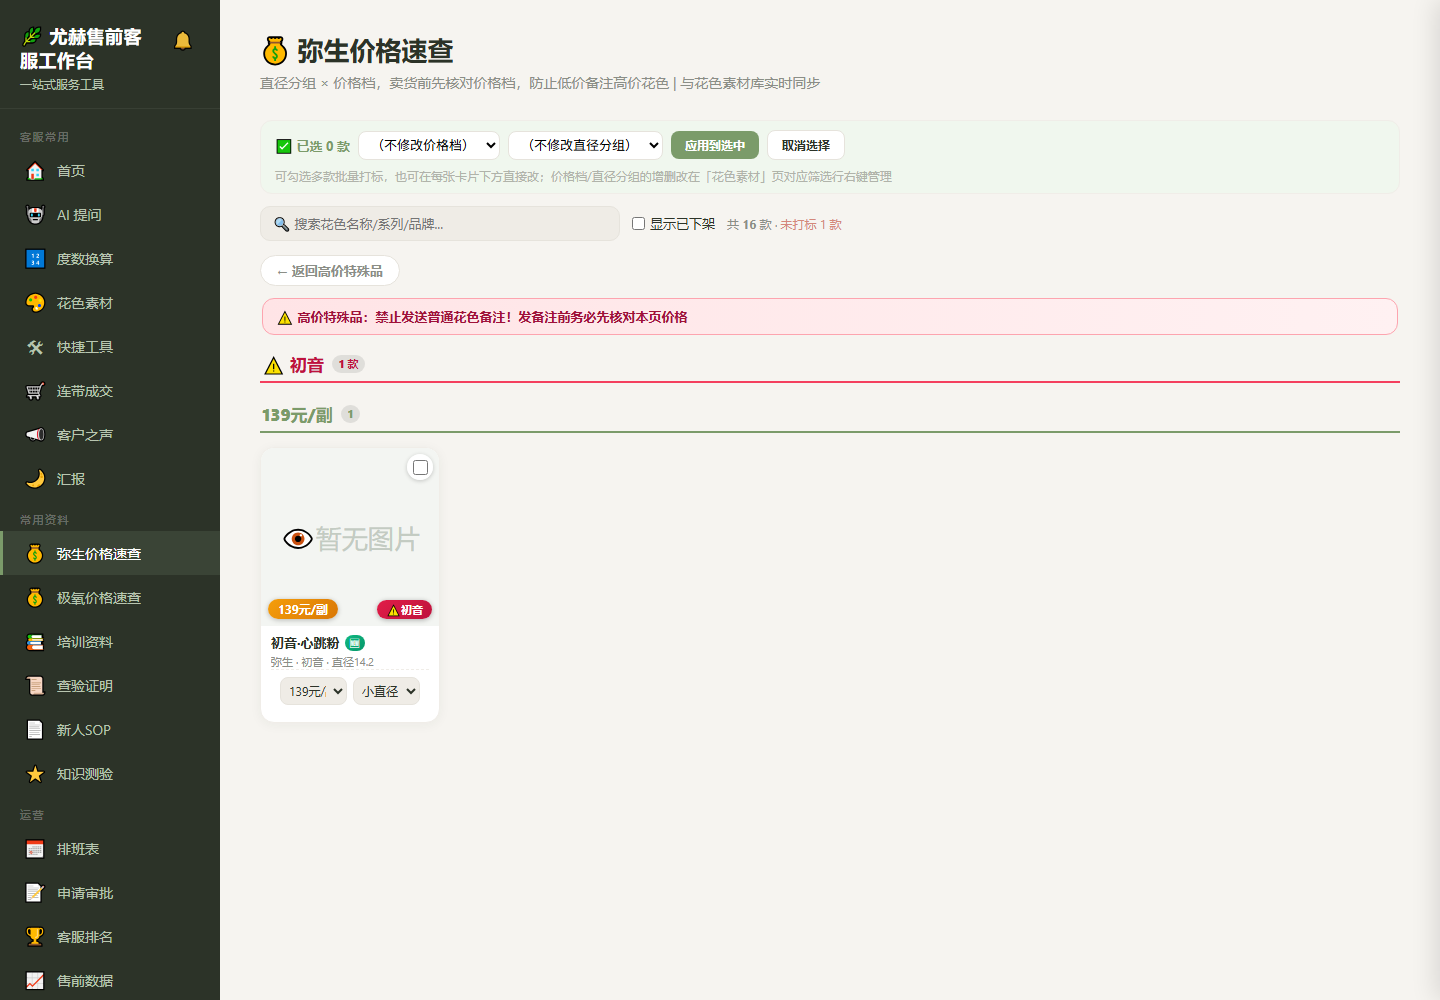
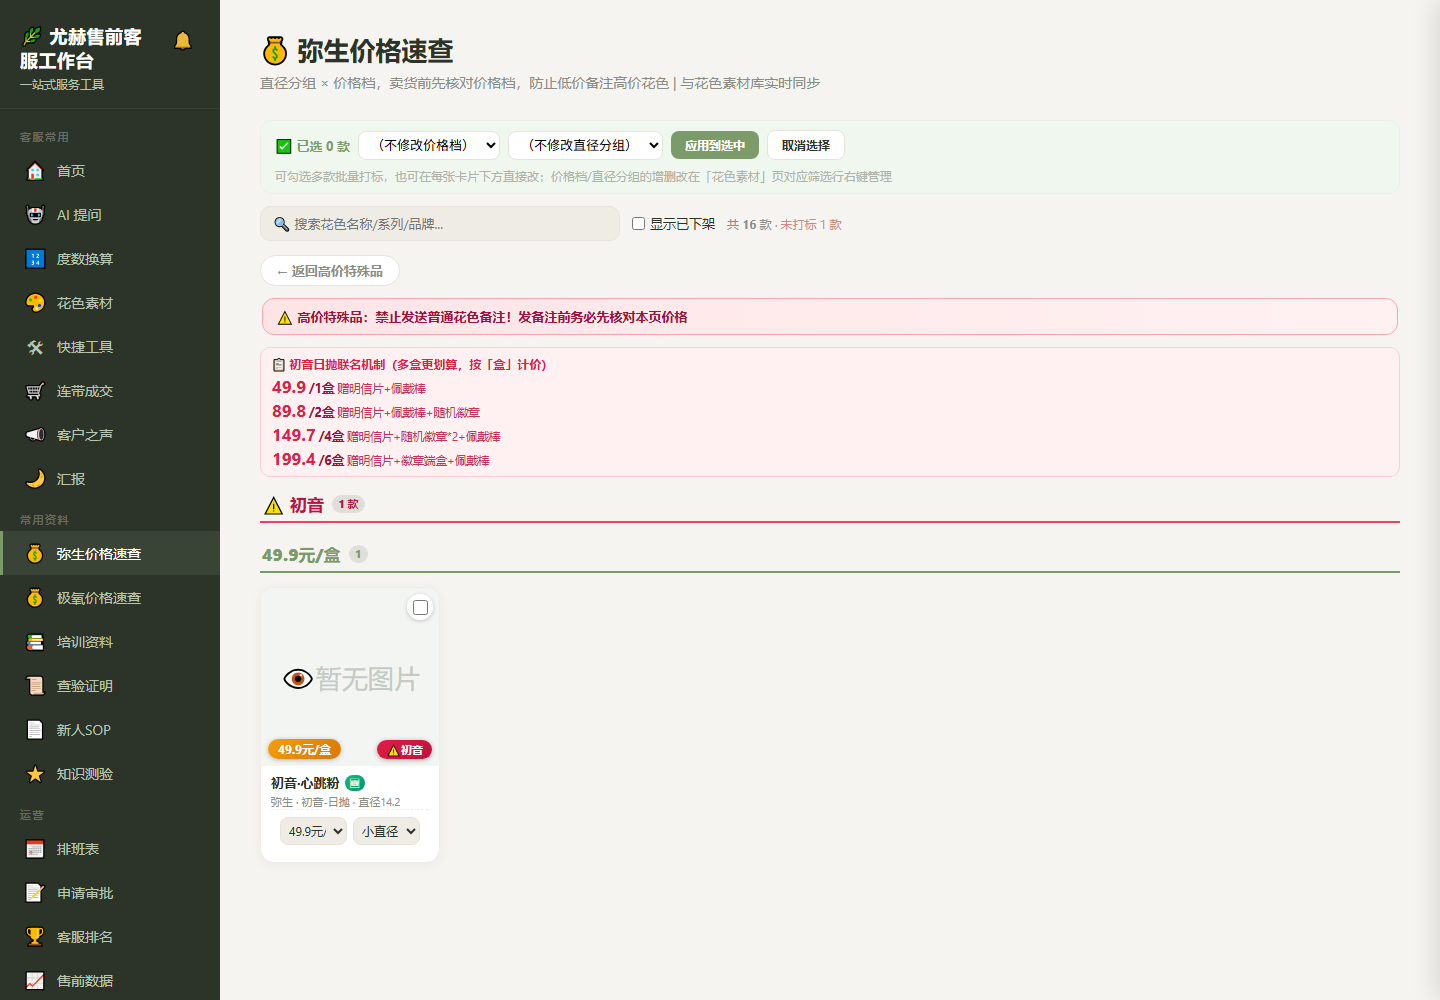
feat(patterns): 初音联名机制印上红卡卡面（49.9/89.8/149.7/199.4 多盒价+赠品），明细页机制条常驻；修复初音匹配（系列名实为初音-日抛/初音未来，全等匹配零命中）；初音日抛价格显示自动转「/盒」，半年抛保持「/副」

Changed region(s): [[0.1875, 0.496, 0.3125, 0.837], [0.1875, 0.341, 0.375, 0.496]]

diff --git a/index.html b/index.html
@@ -782,6 +782,13 @@ body {
 .pp-special-badge{position:absolute;bottom:7px;right:7px;background:linear-gradient(135deg,#e11d48,#be123c);color:#fff;font-size:11px;font-weight:700;padding:2px 9px;border-radius:11px;z-index:2;box-shadow:0 1px 5px rgba(0,0,0,.3);white-space:nowrap;pointer-events:none}
 .pp-special-head{margin:24px 4px 12px;font-size:13px;font-weight:800;color:#be123c;padding:10px 14px;background:#fff1f2;border:1.5px solid #fecdd3;border-radius:12px}
 .pp-special-banner{margin:0 2px 12px;font-size:13px;font-weight:700;color:#9f1239;background:linear-gradient(90deg,#ffe4e6,#fff1f2);border:1px solid #fda4af;border-radius:12px;padding:9px 13px}
+/* 初音联名多盒机制（红卡/明细页复用） */
+.pp-mech{width:100%;box-sizing:border-box;text-align:left;background:#fff1f2;border:1px solid #fecdd3;border-radius:10px;padding:8px 11px;margin:2px 0 10px;display:flex;flex-direction:column;gap:5px}
+.pp-mech-title{font-size:12px;font-weight:800;color:#e11d48}
+.pp-mech-row{display:flex;align-items:baseline;gap:3px;font-size:12.5px;color:#9f1239;flex-wrap:wrap}
+.pp-mech-row b{font-size:17px;color:#e11d48;line-height:1.1}
+.pp-mech-box{font-weight:700}
+.pp-mech-gift{color:#be123c;opacity:.85;font-size:11.5px}
 .pp-check{position:absolute;top:6px;right:6px;z-index:3;background:rgba(255,255,255,.94);border-radius:50%;width:26px;height:26px;display:flex;align-items:center;justify-content:center;box-shadow:0 1px 4px rgba(0,0,0,.2)}
 .pp-check input{width:15px;height:15px;cursor:pointer;accent-color:var(--primary)}
 .pp-body{padding:8px 10px 10px}
@@ -9712,12 +9719,33 @@ const PP_DIMS = [
   { dim: 'diam',   icon: '⭕', title: '按直径', color: '#10b981', key: p => p.diamGroup || '', badgeOf: 'price' },
   { dim: 'price',  icon: '💰', title: '按价格', color: '#f59e0b', key: p => p.priceTier || '', badgeOf: 'diam' },
 ];
-// 高价特殊品：初音=系列名为「初音」；定轴=fixed_axis 填了值。均比普通花色贵，客服容易把普通备注错发到这些单
+// 高价特殊品：初音=系列名含「初音」（线上实际值：初音-日抛 / 初音未来）；定轴=fixed_axis 填了值。均比普通花色贵，客服容易把普通备注错发到这些单
+// mech=联名多盒价格机制（初音日抛按「盒」计价，半年抛按「副」），要改机制内容直接改这里
 const PP_SPECIALS = [
-  { key: 'chuyin',   label: '初音', color: '#e11d48', match: p => (p.series || '') === '初音' },
+  { key: 'chuyin',   label: '初音', color: '#e11d48', match: p => (p.series || '').includes('初音'),
+    mech: [
+      { price: '49.9',  boxes: '1盒', gift: '赠明信片+佩戴棒' },
+      { price: '89.8',  boxes: '2盒', gift: '赠明信片+佩戴棒+随机徽章' },
+      { price: '149.7', boxes: '4盒', gift: '赠明信片+随机徽章*2+佩戴棒' },
+      { price: '199.4', boxes: '6盒', gift: '赠明信片+徽章端盒+佩戴棒' },
+    ] },
   { key: 'dingzhou', label: '定轴', color: '#ea580c', match: p => !!(((p.fixedAxis || '') + '').trim()) },
 ];
 function ppSpecialTags(p) { const a = []; PP_SPECIALS.forEach(s => { if (s.match(p)) a.push(s.label); }); return a; }
+// 价格显示单位：初音日抛按「盒」，其余（含半年抛）按「副」。只改显示，不动库里的档位名
+function ppTierLabel(p) {
+  const t = p.priceTier || '';
+  if (t && (p.series || '').includes('初音') && p._type === '日抛' && /\/副$/.test(t)) return t.slice(0, -2) + '/盒';
+  return t;
+}
+// 联名机制列表（红卡/明细页复用）；withTitle=明细页加标题行
+function ppMechHtml(sp, withTitle) {
+  if (!sp || !sp.mech || !sp.mech.length) return '';
+  return '<div class="pp-mech">'
+    + (withTitle ? '<div class="pp-mech-title">📋 ' + escapeHtml(sp.label) + '日抛联名机制（多盒更划算，按「盒」计价）</div>' : '')
+    + sp.mech.map(m => '<div class="pp-mech-row"><b>' + escapeHtml(m.price) + '</b><span class="pp-mech-box">/' + escapeHtml(m.boxes) + '</span><span class="pp-mech-gift">' + escapeHtml(m.gift) + '</span></div>').join('')
+    + '</div>';
+}
 function renderPatternPricePage() {
   const canManage = canEdit('patterns');
   // 批量打标下拉（管理员可见时才有意义）
@@ -9765,6 +9793,16 @@ function renderPatternPricePage() {
       + '<div class="pp-tiercard-enter">点击查看全部花色 →</div></div>';
   };
 
+  // 高价特殊品红卡（首层/汇总层复用）：联名机制直接印在卡面上，不点进去就能看全
+  const spCard = s => {
+    const n = items.filter(s.match).length;
+    return '<div class="pp-tiercard l1" style="--c:' + s.color + '" onclick="openPpDim(\'special\',\'' + s.key + '\')">'
+      + '<div class="pp-tiercard-price">⚠ ' + s.label + '</div>'
+      + '<div class="pp-tiercard-sub">共 ' + n + ' 款 · 勿发普通花色备注</div>'
+      + ppMechHtml(s)
+      + '<div class="pp-tiercard-enter">点击查看专属明细 →</div></div>';
+  };
+
   if (!ppDimView) {
     // ===== 第一层：四张「按XX分类」大卡片，第一视觉只看分类入口 =====
     html = '<div class="pp-tiercards">';
@@ -9781,15 +9819,7 @@ function renderPatternPricePage() {
     // 高价特殊品专区（初音/定轴）：只要当前范围有匹配就单独红卡展示，防客服发错普通备注
     const spHits = PP_SPECIALS.filter(s => items.some(s.match));
     if (spHits.length) {
-      html += '<div class="pp-special-head">⚠ 高价特殊品（' + spHits.map(s => s.label).join(' / ') + '）· 价格更高，发普通备注前务必先核对！</div><div class="pp-tiercards">';
-      spHits.forEach(s => {
-        const n = items.filter(s.match).length;
-        html += '<div class="pp-tiercard l1" style="--c:' + s.color + '" onclick="openPpDim(\'special\',\'' + s.key + '\')">'
-          + '<div class="pp-tiercard-price">⚠ ' + s.label + '</div>'
-          + '<div class="pp-tiercard-sub">共 ' + n + ' 款 · 勿发普通花色备注</div>'
-          + '<div class="pp-tiercard-enter">点击查看专属明细 →</div></div>';
-      });
-      html += '</div>';
+      html += '<div class="pp-special-head">⚠ 高价特殊品（' + spHits.map(s => s.label).join(' / ') + '）· 价格更高，发普通备注前务必先核对！</div><div class="pp-tiercards">' + spHits.map(spCard).join('') + '</div>';
     }
     if (!items.length) html = '<div class="pattern-empty">😕 没有匹配的花色，先到「花色素材」给花色填上抛型/系列/直径/价格档吧</div>';
   } else if (!ppDimView.val) {
@@ -9799,15 +9829,7 @@ function renderPatternPricePage() {
       const spHits = PP_SPECIALS.filter(s => items.some(s.match));
       const spTotal = items.filter(p => ppSpecialTags(p).length > 0).length;
       html += '<div class="pp-group-title special">⚠ 高价特殊品<span class="pp-count">共 ' + spTotal + ' 款</span></div>';
-      html += '<div class="pp-tiercards">';
-      spHits.forEach(s => {
-        const n = items.filter(s.match).length;
-        html += '<div class="pp-tiercard l1" style="--c:' + s.color + '" onclick="openPpDim(\'special\',\'' + s.key + '\')">'
-          + '<div class="pp-tiercard-price">⚠ ' + s.label + '</div>'
-          + '<div class="pp-tiercard-sub">共 ' + n + ' 款 · 勿发普通花色备注</div>'
-          + '<div class="pp-tiercard-enter">点击查看专属明细 →</div></div>';
-      });
-      html += '</div>';
+      html += '<div class="pp-tiercards">' + spHits.map(spCard).join('') + '</div>';
       if (!spTotal) html += '<div class="pattern-empty">😕 当前筛选下没有高价特殊品</div>';
     } else {
       const def = PP_DIMS.find(d => d.dim === ppDimView.dim) || PP_DIMS[3];
@@ -9822,11 +9844,11 @@ function renderPatternPricePage() {
     // ===== 第三层：花色明细 =====
     const isSpecial = ppDimView.dim === 'special';
     const def = isSpecial ? { dim: 'special', icon: '⚠', title: '高价特殊品' } : (PP_DIMS.find(d => d.dim === ppDimView.dim) || PP_DIMS[3]);
-    let opt = null, isNone = false, detail = [], titleVal = ppDimView.val;
+    let opt = null, isNone = false, detail = [], titleVal = ppDimView.val, spDef = null;
     if (isSpecial) {
-      const sp = PP_SPECIALS.find(s => s.key === ppDimView.val) || null;
-      detail = sp ? items.filter(sp.match) : [];
-      titleVal = sp ? sp.label : '特殊品';
+      spDef = PP_SPECIALS.find(s => s.key === ppDimView.val) || null;
+      detail = spDef ? items.filter(spDef.match) : [];
+      titleVal = spDef ? spDef.label : '特殊品';
     } else {
       opt = ppDimOptions(def.dim, items);
       isNone = ppDimView.val === '__none__';
@@ -9836,6 +9858,7 @@ function renderPatternPricePage() {
     html += '<button class="pp-back" onclick="ppBackToDimOptions(\'' + escapeAttr(def.dim) + '\')">← 返回' + escapeHtml(def.title) + '</button>';
     if (isSpecial) {
       html += '<div class="pp-special-banner">⚠ 高价特殊品：禁止发送普通花色备注！发备注前务必先核对本页价格</div>';
+      html += ppMechHtml(spDef, true);   // 联名机制常驻明细页，发备注前对照
     }
     html += '<div class="pp-group-title' + (isNone ? ' pp-warn' : '') + (isSpecial ? ' special' : '') + '">' + def.icon + ' ' + escapeHtml(titleVal) + '<span class="pp-count">' + detail.length + ' 款</span></div>';
     // 明细分组：特殊品/按直径进来 → 按价格档分组；其余维度按直径分组
@@ -9849,7 +9872,10 @@ function renderPatternPricePage() {
       if (truncated) break;
       const gItems = detail.filter(p => (gd.get(p) || '') === g);
       if (gItems.length === 0) continue;
-      let gHtml = '<div class="pp-group"><div class="pp-group-title' + (g === '' ? ' pp-warn' : '') + '">' + (g === '' ? gd.noneLabel : escapeHtml(g)) + '<span class="pp-count">' + gItems.length + '</span></div>';
+      // 组标题单位：组内全是初音日抛 → 「/盒」，其余（含半年抛）保持「/副」
+      let gLabel = g;
+      if (g !== '' && gItems.every(p => (p.series || '').includes('初音') && p._type === '日抛')) gLabel = String(g).replace(/\/副$/, '/盒');
+      let gHtml = '<div class="pp-group"><div class="pp-group-title' + (g === '' ? ' pp-warn' : '') + '">' + (g === '' ? gd.noneLabel : escapeHtml(gLabel)) + '<span class="pp-count">' + gItems.length + '</span></div>';
       let gShown = 0;
       let tHtml = '<div class="pp-grid">';
       for (const p of gItems) {
@@ -9896,8 +9922,9 @@ function ppCardHtml(p, canManage) {
   const imgHtml = rawSrc
     ? '<img src="' + escapeHtml(addCacheBuster(toCdnUrl(rawSrc))) + '" loading="lazy" decoding="async" alt="' + escapeHtml(p.name) + '">'
     : '<div class="img-placeholder"><span>👁</span>暂无图片</div>';
-  const priceTag = p.priceTier
-    ? '<span class="pp-price-tag">' + escapeHtml(p.priceTier) + '</span>'
+  const tierLabel = ppTierLabel(p);
+  const priceTag = tierLabel
+    ? '<span class="pp-price-tag">' + escapeHtml(tierLabel) + '</span>'
     : '<span class="pp-price-tag none">未标价</span>';
   const discBadge = p.isDiscontinued ? '<div class="pp-disc-badge">已下架</div>' : '';
   const spTags = ppSpecialTags(p);

diff --git a/outputs/smoke-pp.js b/outputs/smoke-pp.js
@@ -322,17 +322,17 @@ const wd = setTimeout(()=>{ console.log('WATCHDOG_TIMEOUT'); process.exit(3); },
     });
     const rows=[
       mk('s1','弥生','日抛','奶茶棕',{series:'倾慕系列',price_tier:'29.9元/副',diam_group:'小直径'}),
-      mk('s2','弥生','月抛','初音粉',{series:'初音',price_tier:'139元/副',diam_group:'小直径'}),
+      mk('s2','弥生','日抛','初音粉',{series:'初音-日抛',price_tier:'49.9元/副',diam_group:'小直径'}),      // 线上真实系列名：初音-日抛
       mk('s3','弥生','半年抛','定轴灰',{series:'星眸系列',fixed_axis:'90°',price_tier:'99元/副',diam_group:'大直径',diameter:'14.5'}),
       mk('s4','弥生','日抛','普通灰',{series:'倾慕系列',price_tier:'29.9元/副',diam_group:'小直径'}),
-      mk('s5','弥生','月抛','初音定轴',{series:'初音',fixed_axis:'90°',price_tier:'199元/副',diam_group:'大直径',diameter:'14.5'}),
+      mk('s5','弥生','半年抛','初音定轴',{series:'初音未来',fixed_axis:'90°',price_tier:'59.9元/副',diam_group:'大直径',diameter:'14.5'}),  // 线上真实系列名：初音未来（半年抛按副）
     ];
     patternData=buildPatternTree(rows);
     patternCategories=[
       {id:'p1',category_type:'price',name:'29.9元/副',sort_order:1},
-      {id:'p2',category_type:'price',name:'99元/副',sort_order:2},
-      {id:'p3',category_type:'price',name:'139元/副',sort_order:3},
-      {id:'p4',category_type:'price',name:'199元/副',sort_order:4},
+      {id:'p2',category_type:'price',name:'49.9元/副',sort_order:2},
+      {id:'p3',category_type:'price',name:'59.9元/副',sort_order:3},
+      {id:'p4',category_type:'price',name:'99元/副',sort_order:4},
       {id:'g1',category_type:'diam_group',name:'小直径',sort_order:1},
       {id:'g2',category_type:'diam_group',name:'大直径',sort_order:2},
       {id:'t1',category_type:'type',name:'日抛',sort_order:1},
@@ -351,16 +351,23 @@ const wd = setTimeout(()=>{ console.log('WATCHDOG_TIMEOUT'); process.exit(3); },
       && c().includes('高价特殊品（初音 / 定轴）') && c().includes('价格更高');
     o.spL1Cards = document.querySelectorAll('#pp-content .pp-tiercard').length;   // 4 分类卡 + 2 红卡 = 6
     o.spRedSubOk = c().includes('勿发普通花色备注');
+    // 机制直接印在首层红卡上（不用点进去）：4 档价格 + 盒数 + 赠品
+    o.spMechCardOk = c().includes('49.9') && c().includes('/1盒') && c().includes('赠明信片+佩戴棒')
+      && c().includes('89.8') && c().includes('149.7') && c().includes('199.4') && c().includes('/6盒') && c().includes('徽章端盒');
+    o.spMechRows = document.querySelectorAll('#pp-content .pp-mech-row').length;  // 4 档
     o.spL1NoChecks = document.querySelectorAll('#pp-content .pp-check').length===0;
     o.spL1NoQuick = document.querySelectorAll('#pp-content .pp-quick').length===0;
-    // 点初音红卡 → 直达明细（客服）：banner/标题/红色角标/按价格档分组
+    // 点初音红卡 → 直达明细（客服）：banner/机制条/标题/红色角标/按价格档分组
     openPpDim('special','chuyin');
     o.spDetailCards = document.querySelectorAll('#pp-content .pp-card').length;   // 初音粉 + 初音定轴 = 2
     o.spBannerOk = c().includes('禁止发送普通花色备注');
+    o.spMechDetailOk = c().includes('联名机制') && c().includes('/2盒') && c().includes('随机徽章');   // 明细页机制条常驻
     o.spTitleOk = c().includes('初音') && c().includes('2 款');
     o.spBadgeCount = document.querySelectorAll('#pp-content .pp-special-badge').length;   // 2
     o.spBadgeOk = o.spBadgeCount>=2 && c().includes('初音 · 定轴');               // s5 命中两条规则 → 双标签
-    o.spGroupByPriceOk = c().includes('139元/副') && c().includes('199元/副');
+    // 单位：初音日抛显示「/盒」，初音未来半年抛保持「/副」（客服视图无下拉，无干扰文本）
+    o.spUnitBoxOk = c().includes('49.9元/盒') && !c().includes('49.9元/副');
+    o.spUnitPairOk = c().includes('59.9元/副');
     o.spBackLabelOk = (document.querySelector('#pp-content .pp-back')||{textContent:''}).textContent.includes('返回高价特殊品');
     const bbC=document.getElementById('pp-batch-bar');
     o.spBatchHiddenCs = !bbC || bbC.style.display==='none';
@@ -401,9 +408,9 @@ const wd = setTimeout(()=>{ console.log('WATCHDOG_TIMEOUT'); process.exit(3); },
     optGridCols:3,
     tierCardsJiyang:4,
     spL1Cards:6, spDetailCards:2, spBadgeCount:2, spL2Cards:2,
-    spSearchOneCards:5, spAdminChecks:2, spQuickSelects:4
+    spSearchOneCards:5, spAdminChecks:2, spQuickSelects:4, spMechRows:4
   };
-  const needed = ['treeFieldsOk','l1Info','noCardsLayer1','noCheckbox','noQuick','noPatternNames','no499','batchBarHiddenCs','backBtn','l2Title','seriesInfo','l2NoPatterns','l2NoCheckbox','optGridOk','batchBarHiddenCsL2','backOk','backLabelOk','typeTitleOk','typePatterns','typeGroupsOk','csTierNoCheckbox','batchBarHiddenCsTier','backToL2Ok','diamGroupsByPrice','priceGroupsByDiam','batchBarEl','batchBarHiddenL1','batchBarHiddenL2','batchBarVisibleTier','disc69Card','discVisible','loadMoreOk','oldNavGone','aliasReset','aliasJiyangOk','navActiveJiyang','aliasMiyangOk','navActiveMiyang','aliasBarHiddenL1','quickOk','localSynced','movedOut','batchOk','selClearedAfter','searchOk','editorPriceExists','editorDgExists','editorOptions','filterFnOk','spHeadOk','spRedSubOk','spL1NoChecks','spL1NoQuick','spBannerOk','spTitleOk','spBadgeOk','spGroupByPriceOk','spBackLabelOk','spBatchHiddenCs','spL2CountOk','spBackToL1Ok','spZoneGoneOnSearch','spSearchOneOk','spAdminBarOk'];
+  const needed = ['treeFieldsOk','l1Info','noCardsLayer1','noCheckbox','noQuick','noPatternNames','no499','batchBarHiddenCs','backBtn','l2Title','seriesInfo','l2NoPatterns','l2NoCheckbox','optGridOk','batchBarHiddenCsL2','backOk','backLabelOk','typeTitleOk','typePatterns','typeGroupsOk','csTierNoCheckbox','batchBarHiddenCsTier','backToL2Ok','diamGroupsByPrice','priceGroupsByDiam','batchBarEl','batchBarHiddenL1','batchBarHiddenL2','batchBarVisibleTier','disc69Card','discVisible','loadMoreOk','oldNavGone','aliasReset','aliasJiyangOk','navActiveJiyang','aliasMiyangOk','navActiveMiyang','aliasBarHiddenL1','quickOk','localSynced','movedOut','batchOk','selClearedAfter','searchOk','editorPriceExists','editorDgExists','editorOptions','filterFnOk','spHeadOk','spRedSubOk','spMechCardOk','spL1NoChecks','spL1NoQuick','spBannerOk','spMechDetailOk','spTitleOk','spBadgeOk','spUnitBoxOk','spUnitPairOk','spBackLabelOk','spBatchHiddenCs','spL2CountOk','spBackToL1Ok','spZoneGoneOnSearch','spSearchOneOk','spAdminBarOk'];
   const numericKeys = Object.keys(numeric);
   const missing = needed.concat(numericKeys).filter(k=>!(k in out));
   const ok = missing.length===0 && needed.every(k=>out[k]===true) && numericKeys.every(k=>out[k]>=numeric[k]);

diff --git a/outputs/screenshot-pp.js b/outputs/screenshot-pp.js
@@ -27,8 +27,8 @@ const BASE = 'http://127.0.0.1:8123/index.html';
       series: series[i%3], price_tier: i<26 ? tiers[i%4] : '', diam_group: i<26 ? groups[i%3] : '',
       diameter: groups[i%3]==='大直径' ? '14.5' : '14.2', disc: i===26
     }));
-    // 高价特殊品样例：初音（系列=初音）+ 定轴（fixed_axis 有值）
-    rows.push(mk('sp1','弥生','日抛','初音·心跳粉',{series:'初音',price_tier:'139元/副',diam_group:'小直径',created_at:now}));
+    // 高价特殊品样例：初音（系列含「初音」，线上真实值如「初音-日抛」）+ 定轴（fixed_axis 有值）
+    rows.push(mk('sp1','弥生','日抛','初音·心跳粉',{series:'初音-日抛',price_tier:'49.9元/副',diam_group:'小直径',created_at:now}));
     rows.push(mk('sp2','弥生','半年抛','定轴·星雾灰',{series:'星眸系列',price_tier:'99元/副',diam_group:'大直径',diameter:'14.5',fixed_axis:'90°',created_at:now}));
     window.__rows = rows;
     patternCategories = [

diff --git a/.workbuddy/memory/2026-09-04.md b/.workbuddy/memory/2026-09-04.md
@@ -118,3 +118,10 @@ git add index.html .workbuddy/memory/2026-09-04.md && git commit -q -m "feat(pat
 - **测试**：smoke-pp.js 新增 specialZone 独立数据集块（s1-s5，含双命中 s5）15 布尔 + 7 数值断言：L1 红区出现/客服无勾选框、直达明细 banner/角标/按价分组、汇总层去重计数「共 3 款」、搜索排除→红区消失、只命中单规则→只剩一张红卡、管理员批量条/勾选框/快捷下拉。全部 PRICE_OK，语法 5 段 inline script 全过。
 - **踩坑**：①搜「初音」验证单红卡翻车——双命中款 s5（初音+定轴）让两张红卡都在，改搜「初音粉」（只命中单规则的款名）才对；②截图脚本首层预览一度以为批量条泄漏到 L1，用「强制隐藏后字节对比」+elementFromPoint 探针证实是看了旧缓存图，DOM 状态一直正确，别被预览图骗了。
 - **部署**：无需 SQL（纯前端读现有 series/fixed_axis 字段）、无需 bump iframe 版本；预览图 pp-page-preview.png（首层含红区）/ pp-special-preview.png（初音明细）已更新。
+
+## 初音联名机制上图 + 单位修正（杨茹：机制图同步到卡片首页，初音日抛按盒）
+- **关键 bug 修复**：查线上数据发现初音真实系列名是「初音-日抛」（4 款日抛，49.9元/副）和「初音未来」（9 款半年抛，未标价），原 match 全等 `=== '初音'` **一条都匹配不上** → 改为 `series.includes('初音')`。
+- **机制上图**：`PP_SPECIALS` chuyin 加 `mech` 数组（49.9/1盒·赠明信片+佩戴棒、89.8/2盒·+随机徽章、149.7/4盒·徽章*2、199.4/6盒·徽章端盒，改内容直接改这个数组）；`ppMechHtml(sp, withTitle)` 红卡/明细页复用；首层与汇总层初音红卡直接印 4 档机制（spCard 构造器去重了原来两处重复代码），明细页 banner 下机制条常驻。
+- **单位规则**：`ppTierLabel(p)` 卡片价格标签——初音日抛「/副」→「/盒」（只改显示不动库档位名），半年抛保持副；明细页分组标题按组内成分判断（组内全是初音日抛才转盒，混组不转）。注意管理员快捷下拉/批量下拉里仍是原始档位名（共享数据不改）。
+- **测试**：smoke specialZone 种子改为线上真实系列名（初音-日抛/初音未来），新增 spMechCardOk（首层卡面机制 4 档+赠品）/spMechRows=4/spMechDetailOk（明细机制条）/spUnitBoxOk（49.9元/盒 且无 49.9元/副）/spUnitPairOk（59.9元/副 保持）断言，67 项全过 PRICE_OK；语法 5 段全过。预览图已更新（首层红卡印机制 + 明细页机制条/盒单位）。
+- **部署**：commit 待填，main 已 push，无需 SQL、无需 bump。
